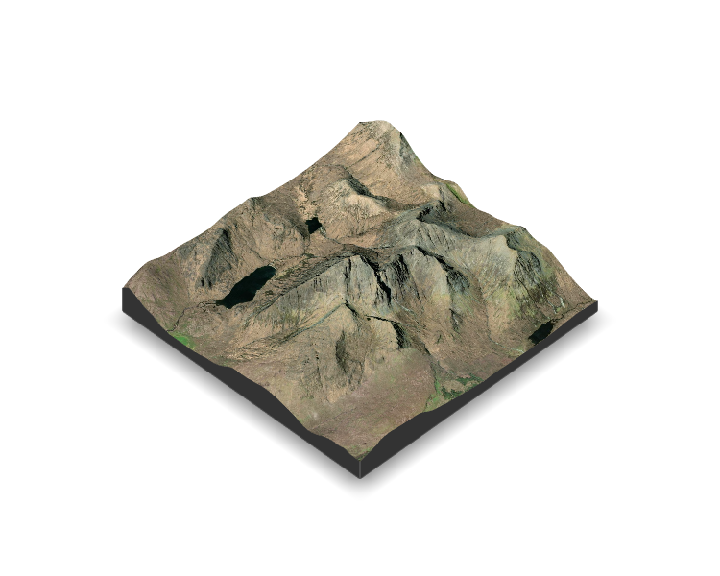
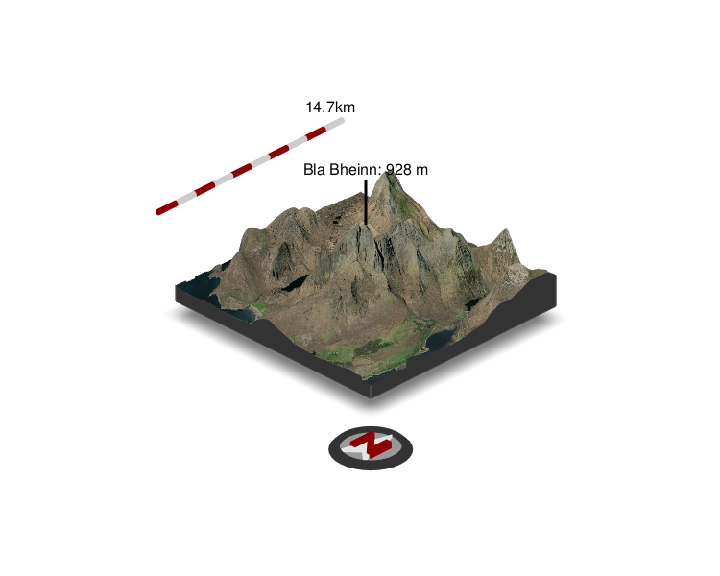
attribution now added to matrix attributes. readme updated.

Changed region(s): [[0.1528, 0.1562, 0.8556, 0.875], [0.2139, 0.3125, 0.3056, 0.375]]

diff --git a/README.md b/README.md
@@ -9,13 +9,27 @@
 
 **rayvista** is an R package providing a small plugin for the fabulous
 [{rayshader}](https://github.com/tylermorganwall/rayshader) package. It
-provides a single function `plot_3d_vista()` which allows the user to
+provides a single main function `plot_3d_vista` which allows the user to
 create a 3D visualisation of any location on earth. It is reliant on two
-other brilliant packages namely:
+other brilliant packages:
 [{maptiles}](https://github.com/riatelab/maptiles) and
 [{elevatr}](https://github.com/jhollist/elevatr). The many available map
-tiles from {maptiles} can be easily overlaid on top of elevation data
+styles from {maptiles} can be easily overlaid on top of elevation data
 from {elevatr} to create the 3D scene or vista :wink:
+
+An [{rgl}](https://github.com/cran/rgl) window is opened which displays
+the vista and the user may then interact with it using a selection of
+functions provided by {rayshader} including: `render_snapshot`,
+`render_highquality`, `render_compass`, etc. see the [rayshader function
+reference](https://www.rayshader.com/reference/index.html) for more
+details…
+
+You can access the data attribution from the returned matrix object.
+
+This package is in its early days so there will no doubt be some issues.
+Please feel free to submit an
+[issue](https://github.com/h-a-graham/rayvista/issues) or start up a
+[discussion]()
 
 ## Installation
 
@@ -32,7 +46,20 @@ devtools::install_github("h-a-graham/rayvista")
 library(rayshader) 
 library(rayvista)
 
-plot_3d_vista(lat=57.219566, long=-6.092690,)
+.lat <- 57.21956608144513
+.long <- -6.092690805001252
+
+cuillins <- plot_3d_vista(lat = .lat, long = .long, phi=30)
+
+render_label(heightmap= cuillins, text='Bla Bheinn: 928 m', lat = .lat,
+             long=.long, extent = attr(cuillins, 'extent'),altitude=600,
+             clear_previous = T, zscale = 2)
+Sys.sleep(0.2)
+render_compass()
+Sys.sleep(0.2)
+render_scalebar(limits=c(
+  round(dim(cuillins)[2]*attr(cuillins, 'resolution')/1000,1)),
+  label_unit = 'km')
 
 render_snapshot(clear=TRUE)
 ```
@@ -40,18 +67,33 @@ render_snapshot(clear=TRUE)
 ![](man/figures/BlaBheinn-1.png)<!-- -->
 
 ``` r
-plot_3d_vista(lat=55.757338, long=160.526712, phi=20)
+GoraBolshayaUdina <- plot_3d_vista(lat=55.757338, long=160.526712, zscale=4, phi=20)
 
-render_snapshot(clear=TRUE)
+render_depth(focus=0.4, focallength = 30, clear=TRUE)
 ```
 
 ![](man/figures/GoraBolshayaUdina-1.png)<!-- -->
 
 ``` r
-plot_3d_vista(lat=37.742501, long=-119.558298, zscale=5, zoom=0.5, theta=-65,
+Yosemite <- plot_3d_vista(lat=37.742501, long=-119.558298, zscale=5, zoom=0.5, theta=-65,
               phi=25)
 
-render_snapshot(clear=TRUE)
+render_highquality(clear=TRUE)
 ```
 
 ![](man/figures/Yosemite-1.png)<!-- -->
+
+``` r
+HopkinsNZ <- plot_3d_vista(lat=-44.042238, long=169.860985, radius=5000, overlay_detail = 14,
+             elevation_detail=13, zscale=5, img_provider = 'OpenStreetMap',
+             cache_dir = 'testing',theta=25, phi=25, zoom=0.5,
+             windowsize =1200, solid=T, background='grey10')
+
+render_highquality(lightdirection = c(60,120, 240),
+                   lightaltitude=c(90,25, 12),
+                   lightintensity=c(100, 500, 450),
+                   lightcolor = c("white", "#FF9956", "#FF79E7"),
+                   clear=TRUE)
+```
+
+![](man/figures/HopkinsNZ-1.png)<!-- -->
